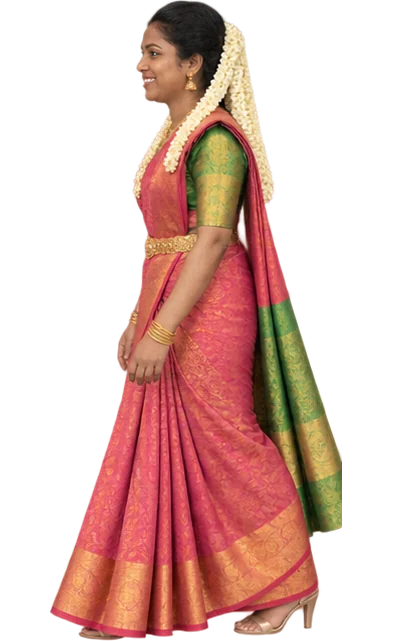
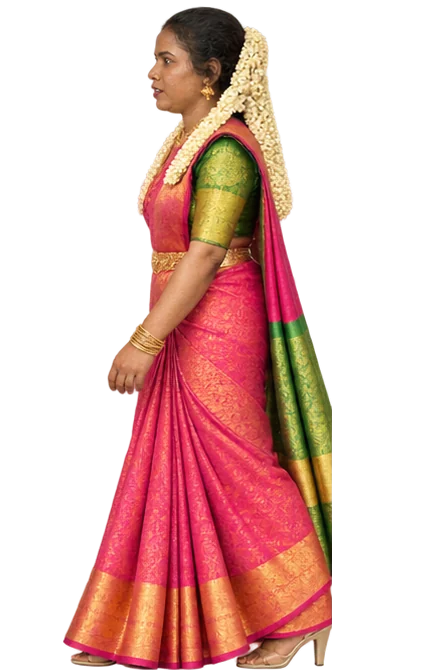
Notre rencontre : marche de Marguerite au rose vif des poses finales

diff --git a/index.html b/index.html
@@ -30,15 +30,15 @@
   <link rel="preload" href="polices/bodoni-moda-latin.woff2" as="font" type="font/woff2" crossorigin>
   <link rel="preload" href="polices/dm-sans-latin.woff2" as="font" type="font/woff2" crossorigin>
   <link rel="preload" href="polices/great-vibes-latin.woff2" as="font" type="font/woff2" crossorigin>
-  <link rel="stylesheet" href="css/polices.css?v=20261025t">
-  <link rel="stylesheet" href="css/style.css?v=20261025t">
-  <script src="js/tete.js?v=20261025t"></script>
+  <link rel="stylesheet" href="css/polices.css?v=20261025u">
+  <link rel="stylesheet" href="css/style.css?v=20261025u">
+  <script src="js/tete.js?v=20261025u"></script>
   <script src="vendor/gsap.min.js" defer></script>
   <script src="vendor/ScrollTrigger.min.js" defer></script>
-  <script src="js/config.js?v=20261025t" defer></script>
-  <script src="js/langues.js?v=20261025t" defer></script>
-  <script src="js/main.js?v=20261025t" defer></script>
-  <script src="js/rencontre.js?v=20261025t" defer></script>
+  <script src="js/config.js?v=20261025u" defer></script>
+  <script src="js/langues.js?v=20261025u" defer></script>
+  <script src="js/main.js?v=20261025u" defer></script>
+  <script src="js/rencontre.js?v=20261025u" defer></script>
 </head>
 <body>
 <a class="saut" href="#histoire">Aller au contenu</a>
@@ -125,12 +125,12 @@
         <img class="rencontre__image" data-pas src="images/rencontre/fabrice-pas-6.webp?v=6" width="414" height="690" alt="" decoding="async">
       </div>
       <div class="rencontre__fig rencontre__fig--marguerite" data-marguerite aria-hidden="true">
-        <img class="rencontre__image" data-pas src="images/rencontre/marguerite-pas-1.webp?v=7" width="406" height="641" alt="" decoding="async">
-        <img class="rencontre__image" data-pas src="images/rencontre/marguerite-pas-2.webp?v=7" width="406" height="641" alt="" decoding="async">
-        <img class="rencontre__image" data-pas src="images/rencontre/marguerite-pas-3.webp?v=7" width="406" height="641" alt="" decoding="async">
-        <img class="rencontre__image" data-pas src="images/rencontre/marguerite-pas-4.webp?v=7" width="406" height="641" alt="" decoding="async">
-        <img class="rencontre__image" data-pas src="images/rencontre/marguerite-pas-5.webp?v=7" width="406" height="641" alt="" decoding="async">
-        <img class="rencontre__image" data-pas src="images/rencontre/marguerite-pas-6.webp?v=7" width="406" height="641" alt="" decoding="async">
+        <img class="rencontre__image" data-pas src="images/rencontre/marguerite-pas-1.webp?v=8" width="432" height="670" alt="" decoding="async">
+        <img class="rencontre__image" data-pas src="images/rencontre/marguerite-pas-2.webp?v=8" width="432" height="670" alt="" decoding="async">
+        <img class="rencontre__image" data-pas src="images/rencontre/marguerite-pas-3.webp?v=8" width="432" height="670" alt="" decoding="async">
+        <img class="rencontre__image" data-pas src="images/rencontre/marguerite-pas-4.webp?v=8" width="432" height="670" alt="" decoding="async">
+        <img class="rencontre__image" data-pas src="images/rencontre/marguerite-pas-5.webp?v=8" width="432" height="670" alt="" decoding="async">
+        <img class="rencontre__image" data-pas src="images/rencontre/marguerite-pas-6.webp?v=8" width="432" height="670" alt="" decoding="async">
       </div>
       <img class="rencontre__duo rencontre__duo--ensemble" data-ensemble src="images/rencontre/ensemble.webp" width="743" height="1200" alt="" aria-hidden="true" decoding="async">
       <img class="rencontre__duo rencontre__duo--coeur" data-coeur src="images/rencontre/coeur.webp" width="724" height="1200" alt="Fabrice et Marguerite forment un cœur avec leurs mains" decoding="async">

diff --git a/js/rencontre.js b/js/rencontre.js
@@ -53,7 +53,7 @@
   var HAUTEUR_M = 0.927; // Marguerite mesure 92,7 % de la hauteur de Fabrice
   var TETE_F_IMAGE = 0.531; // position de la tête dans les images de marche (fraction de leur largeur)
   var FOULEE = 0.9; // longueur d'une foulée complète (un cycle d'images), en hauteurs de personnage
-  var TETE_M_IMAGE = 0.426; // Marguerite marche vers la gauche : sa tête est à gauche du buste
+  var TETE_M_IMAGE = 0.444; // Marguerite marche vers la gauche : sa tête est à gauche du buste
 
   var borne = function (x) { return Math.max(0, Math.min(1, x)); };
   var lisse = function (a, b, t) { var v = borne((t - a) / (b - a)); return v * v * (3 - 2 * v); };

diff --git a/css/style.css b/css/style.css
@@ -393,7 +393,7 @@ body.menu-ouvert { overflow: hidden; }
 .rencontre__fig { left: 0; opacity: 0; transform-origin: 50% 100%; will-change: transform, opacity; }
 /* Marche image par image : toutes les images d'un personnage ont le même cadre (pieds en bas) ; une seule est visible. */
 .rencontre__fig--fabrice { aspect-ratio: 414 / 690; }
-.rencontre__fig--marguerite { aspect-ratio: 406 / 641; }
+.rencontre__fig--marguerite { aspect-ratio: 432 / 670; }
 .rencontre__image { position: absolute; inset: 0; width: 100%; height: 100%; max-width: none; opacity: 0; }
 .rencontre__image:first-child { opacity: 1; }
 .rencontre__fig--fabrice { z-index: 2; }
